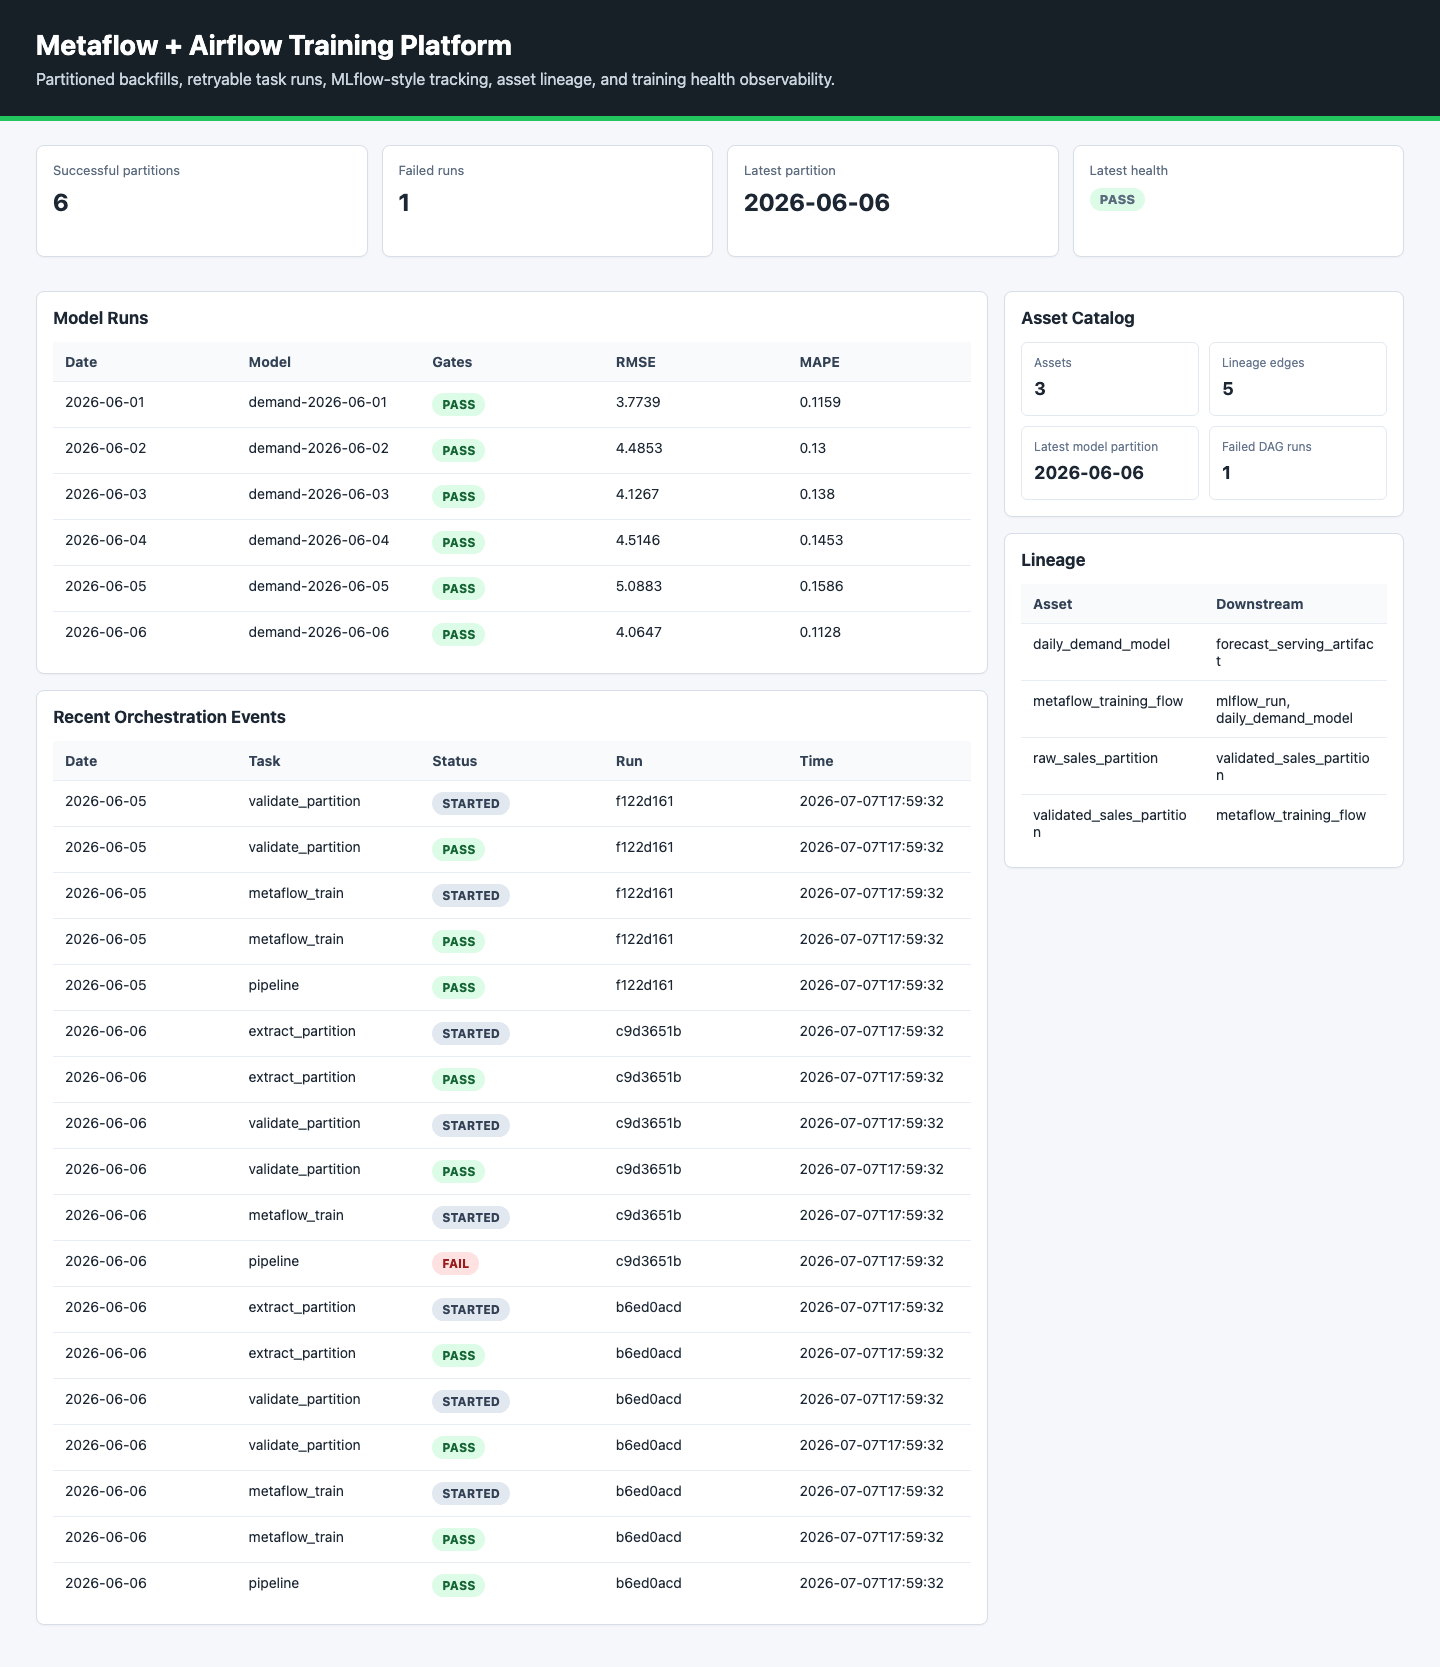
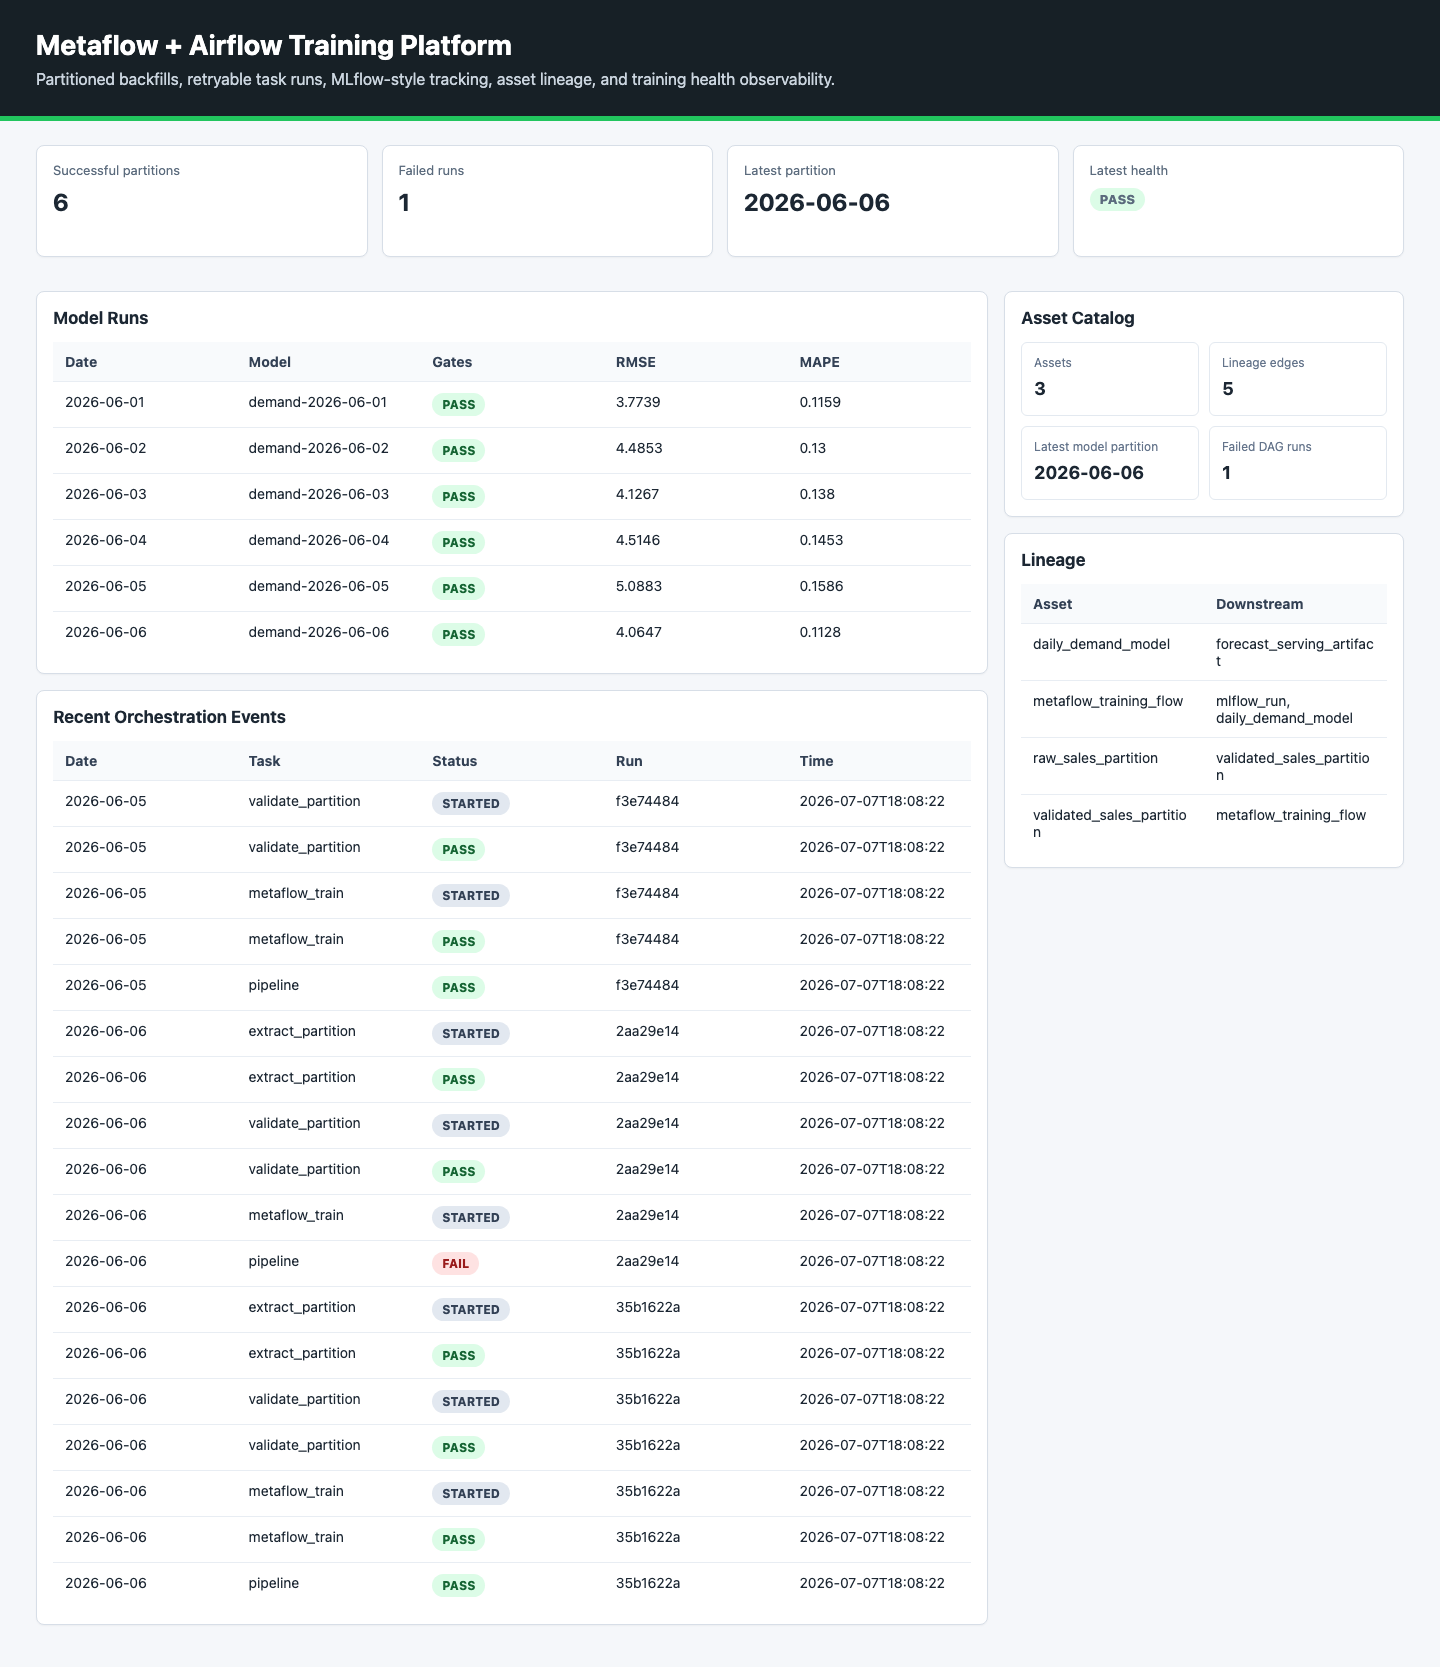
Add training governance and Airflow executor templates

Changed region(s): [[0.625, 0.4679, 0.6562, 0.967], [0.4375, 0.4679, 0.4688, 0.967]]

diff --git a/tests/test_training_orchestration_platform.py b/tests/test_training_orchestration_platform.py
@@ -25,6 +25,16 @@ class TrainingOrchestrationPlatformTest(unittest.TestCase):
         for expected in ["CronJob", "completionMode: Indexed", "parallelism: 4", "RoleBinding", "ConfigMap"]:
             self.assertIn(expected, workload_text)
 
+    def test_kubernetes_governance_and_airflow_pod_template_exist(self) -> None:
+        repo = Path(__file__).resolve().parents[1]
+        governance = (repo / "kubernetes" / "platform-governance.yaml").read_text(encoding="utf-8")
+        pod_template = (repo / "kubernetes" / "airflow-kubernetes-executor-pod-template.yaml").read_text(encoding="utf-8")
+
+        for expected in ["ResourceQuota", "LimitRange", "PriorityClass", "PodDisruptionBudget"]:
+            self.assertIn(expected, governance)
+        for expected in ["initContainers", "nodeSelector", "tolerations", "emptyDir", "securityContext"]:
+            self.assertIn(expected, pod_template)
+
     def test_demo_runs_backfill_failure_recovery_and_dashboard(self) -> None:
         with tempfile.TemporaryDirectory() as tmp:
             root = Path(tmp)

diff --git a/docs/kubernetes-airflow-robustness.md b/docs/kubernetes-airflow-robustness.md
@@ -1,0 +1,24 @@
+# Kubernetes And Airflow Robustness Layer
+
+This repo now models a partitioned training mesh suitable for larger backfills.
+
+## Airflow Features
+
+- Enterprise training mesh DAG.
+- Dynamic task mapping across domains and model families.
+- TaskGroups for validation and Metaflow child-flow launch.
+- Branching for champion selection and partition quarantine.
+- KubernetesPodOperator execution.
+- Asset-aware scheduling and lineage outlets.
+
+## Kubernetes Features
+
+- Indexed CronJob for parallel partition workers.
+- ResourceQuota and LimitRange for compute governance.
+- PriorityClass for backfill and recovery jobs.
+- Airflow KubernetesExecutor pod template with init container, emptyDir workspace, nodeSelector, and tolerations.
+- Namespace, service account, RBAC, pod security labels, and PodDisruptionBudget.
+
+## Why It Matters
+
+Large model-training workflows are mostly hard because of reruns, backfills, resource contention, and traceability. This repo now shows those concerns directly.

diff --git a/README.md b/README.md
@@ -73,6 +73,8 @@ See [production-grade refinements](docs/production-grade-refinements.md) for the
 
 For the latest training mesh orchestration pass, see [advanced orchestration assessment](docs/advanced-orchestration-assessment.md).
 
+For the Kubernetes/Airflow robustness layer, see [Kubernetes and Airflow robustness](docs/kubernetes-airflow-robustness.md).
+
 ## Airflow And Metaflow Split
 
 Airflow owns schedule, catchup, backfill policy, alerting, and dependency coordination. Metaflow owns the training flow boundaries: start, train, evaluate, artifact capture, and step retry behavior.